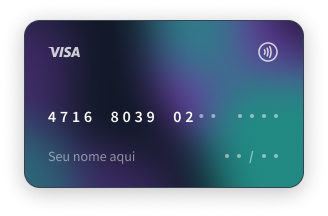
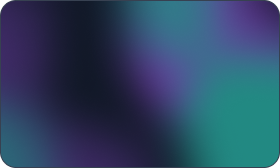
Add dynamic card

diff --git a/src/index.js b/src/index.js
@@ -1,18 +1,84 @@
-function cardNumberMask() {
-  const cardNumberInput = document.getElementById("card-number");
-  const values = cardNumberInput.value.replaceAll(/\D/g, "").match(/.{1,4}/g);
-  cardNumberInput.value = values ? values.join(" ") : "";
+function cardNumberMask(inputValue) {
+  const numericValue = inputValue.replace(/\D/g, "");
+  const values = numericValue.match(/.{1,4}/g);
+  return values ? values.join(" ") : "";
 }
 
-function expirationDateMask() {
-  const expirationDateInput = document.getElementById("expiration-date");
-  const values = expirationDateInput.value
-    .replaceAll(/\D/g, "")
-    .match(/.{1,2}/g);
-  expirationDateInput.value = values ? values.join("/") : "";
+function expirationDateMask(inputValue) {
+  const numericValue = inputValue.replace(/\D/g, "");
+  const values = numericValue.match(/.{1,2}/g);
+  return values ? values.join("/") : "";
 }
 
-function cvvMask() {
-  const cvvInput = document.getElementById("cvv");
-  cvvInput.value = cvvInput.value.replaceAll(/\D/g, "");
+function cvvMask(inputValue) {
+  return inputValue.replaceAll(/\D/g, "");
+}
+
+function handleCardNumberInput() {
+  const cardNumberInput = document.getElementById("card-number-input");
+  const imageCardNumber = document.getElementById("card-number");
+  let newImageCardNumberText = "**** **** **** ****";
+  const maskedValue = cardNumberMask(cardNumberInput.value);
+  cardNumberInput.value = maskedValue;
+  for (let i = 0; i < maskedValue.length; i++) {
+    newImageCardNumberText =
+      newImageCardNumberText.slice(0, i) +
+      maskedValue[i] +
+      newImageCardNumberText.slice(i + 1);
+  }
+  updateImageText(imageCardNumber, newImageCardNumberText);
+}
+
+function handleExpirationDateInput() {
+  const expirationDateInput = document.getElementById("expiration-date-input");
+  const imageExpirationDate = document.getElementById("expiration-date");
+  const maskedValue = expirationDateMask(expirationDateInput.value);
+  expirationDateInput.value = maskedValue;
+  updateImageText(
+    imageExpirationDate,
+    maskedValue.length ? maskedValue : "mm/aa"
+  );
+}
+
+function handleCvvInput() {
+  const cvvInput = document.getElementById("cvv-input");
+  const maskedValue = cvvMask(cvvInput.value);
+  cvvInput.value = maskedValue;
+}
+
+function handleCardHolderInput() {
+  const cardHolderInput = document.getElementById("cardholder-input");
+  const imageCardHolder = document.getElementById("cardholder");
+  updateImageText(
+    imageCardHolder,
+    cardHolderInput.value.length ? cardHolderInput.value : "Seu nome aqui"
+  );
+}
+
+function updateImageText(element, text) {
+  element.innerText = text;
+}
+
+function validateCardNumber(cardNumber) {
+  const cardNumberWithoutSpaces = cardNumber.replaceAll(" ", "");
+  const cardNumberArray = cardNumberWithoutSpaces.split("");
+  const cardNumberArrayReversed = cardNumberArray.reverse();
+  const cardNumberArrayReversedWithDoubledNumbers = cardNumberArrayReversed.map(
+    (number, index) => {
+      if (index % 2 !== 0) {
+        const doubledNumber = number * 2;
+        if (doubledNumber > 9) {
+          return doubledNumber - 9;
+        }
+        return doubledNumber;
+      }
+      return number;
+    }
+  );
+  const sumOfNumbers = cardNumberArrayReversedWithDoubledNumbers.reduce(
+    (acc, number) => acc + Number(number),
+    0
+  );
+  const isValid = sumOfNumbers % 10 === 0;
+  isValid ? {} : alert("Número do cartão inválido");
 }

diff --git a/src/index.html b/src/index.html
@@ -23,11 +23,12 @@
       <form action="#" class="form">
         <div class="form-group">
           <div class="input-wrapper">
-            <label for="card-number">Número do cartão</label>
+            <label for="card-number-input">Número do cartão</label>
             <input
-              oninput="cardNumberMask()"
+              oninput="handleCardNumberInput()"
+              onchange="validateCardNumber(value)"
               type="text"
-              id="card-number"
+              id="card-number-input"
               name="card-number"
               required
               maxlength="19"
@@ -35,44 +36,58 @@
             />
           </div>
           <div class="input-wrapper">
-            <label for="cardholder">Nome do titular</label>
+            <label for="cardholder-input">Nome do titular</label>
             <input
               type="text"
-              id="cardholder"
+              id="cardholder-input"
               name="cardholder"
               required
               placeholder="Nome como está no cartão"
+              maxlength="26"
+              oninput="handleCardHolderInput()"
             />
           </div>
           <div class="input-wrapper">
-            <label for="expiration-date">Validade</label>
+            <label for="expiration-date-input">Validade</label>
             <input
               type="text"
-              id="expiration-date"
+              id="expiration-date-input"
               name="expiration-date"
               required
               maxlength="5"
               placeholder="mm/aa"
-              oninput="expirationDateMask()"
+              oninput="handleExpirationDateInput()"
             />
           </div>
           <div class="input-wrapper">
-            <label for="cvv">
+            <label for="cvv-input">
               CVV
               <span class="material-symbols-outlined"> help </span></label
             >
             <input
               type="text"
-              id="cvv"
+              id="cvv-input"
               name="cvv"
               required
               placeholder="***"
               maxlength="3"
-              oninput="cvvMask()"
+              oninput="handleCvvInput()"
             />
           </div>
         </div>
-        <img src="./assets/card.png" alt="Cartão de Crédito" />
+        <div id="card-image" class="card-image">
+          <header class="top-info">
+            <img src="assets/visa-logo.svg" alt="Logo da VISA" />
+            <img src="assets/ContactlessPayment.svg" alt="Logo da VISA" />
+          </header>
+          <div class="bottom-info">
+            <h1 id="card-number">**** **** **** ****</h1>
+            <div class="cardholder-expiration">
+              <p id="cardholder">Seu nome aqui</p>
+              <p id="expiration-date">mm/aa</p>
+            </div>
+          </div>
+        </div>
         <p class="catchphrase">
           <span class="material-symbols-outlined"> verified_user </span> Seus
           dados estão seguros

diff --git a/src/styles.css b/src/styles.css
@@ -152,3 +152,65 @@ input:hover {
 input:focus {
   outline: 1.5px solid #9333ea;
 }
+
+#card-image {
+  display: flex;
+  flex-direction: column;
+  justify-content: space-between;
+  width: 280px;
+  height: 168px;
+  background-color: #111827;
+  border-radius: 16px;
+  padding: 16px 24px;
+  background-image: url("assets/card.png");
+  background-size: cover;
+  background-position: center;
+  grid-area: image;
+  filter: drop-shadow(0px 4px 16px rgba(0, 0, 0, 0.1));
+  cursor: default;
+  -webkit-user-select: none; /* Safari */
+  -ms-user-select: none; /* IE 10 and IE 11 */
+  user-select: none; /* Standard syntax */
+}
+
+.top-info {
+  display: flex;
+  flex-direction: row;
+  justify-content: space-between;
+  align-items: center;
+  width: 100%;
+}
+
+.bottom-info {
+  display: flex;
+  flex-direction: column;
+  align-items: center;
+  width: 100%;
+  row-gap: 24px;
+}
+
+#card-number {
+  font-size: 24px;
+  font-weight: 400;
+  color: #f9fafb;
+  text-align: justify;
+  white-space: nowrap;
+  letter-spacing: 1px;
+}
+
+.cardholder-expiration {
+  display: flex;
+  flex-direction: row;
+  justify-content: space-between;
+  align-items: center;
+  gap: 12px;
+  width: 100%;
+}
+
+#cardholder,
+#expiration-date {
+  font-size: 16px;
+  color: #f9fafb;
+  text-align: center;
+  opacity: 0.5;
+}
